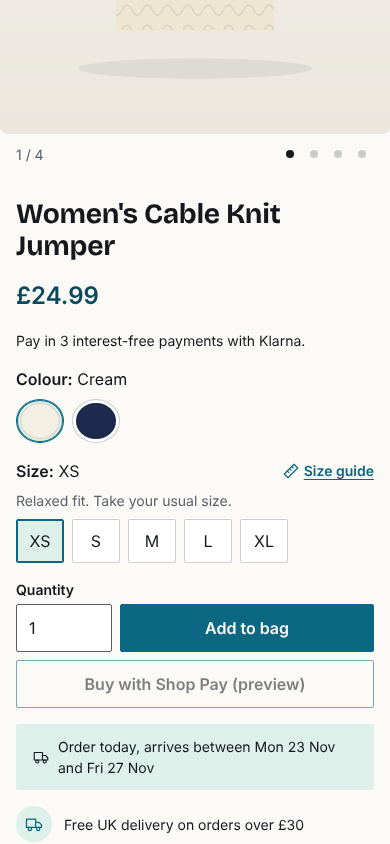
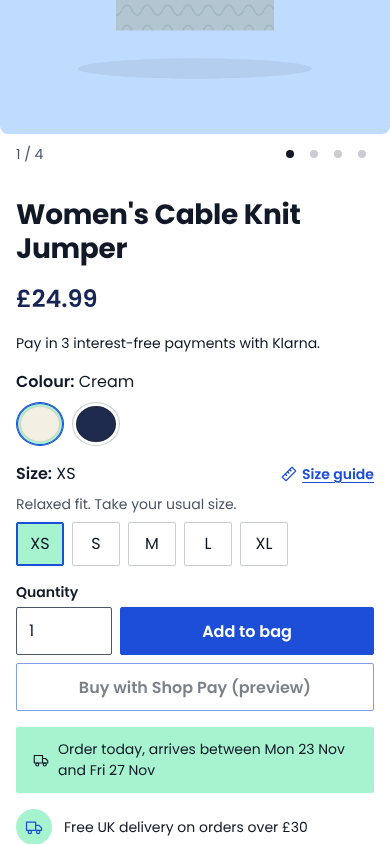
Brighter, more saturated colour palette
Royal blue header and buttons, navy footer, sunshine yellow highlights, coral and raspberry
accents, saturated section backgrounds on a pure white page; photo areas blend with the
section colour. All colour pairs pass WCAG AA; CI and 92 e2e tests pass.

Claude-Session: https://claude.ai/code/session_01DeacWXoWn9bGQYXVPzxuUJ

diff --git a/tools/preview/images.ts b/tools/preview/images.ts
@@ -24,7 +24,7 @@ export async function ensureImage(dir: string, name: string, shape: string, colo
     ? `<pattern id="p" width="80" height="80" patternUnits="userSpaceOnUse"><path d="M0 40 Q20 0 40 40 T80 40" fill="none" stroke="rgba(0,0,0,0.08)" stroke-width="6"/></pattern>`
     : '';
   const svg = `<svg xmlns="http://www.w3.org/2000/svg" width="1536" height="2048" viewBox="0 0 1536 2048">
-    <defs>${pattern}<linearGradient id="bg" x1="0" y1="0" x2="0" y2="1"><stop offset="0" stop-color="#f6f4ef"/><stop offset="1" stop-color="#ebe7df"/></linearGradient></defs>
+    <defs>${pattern}<linearGradient id="bg" x1="0" y1="0" x2="0" y2="1"><stop offset="0" stop-color="#ffffff"/><stop offset="1" stop-color="#ffffff"/></linearGradient></defs>
     <rect width="1536" height="2048" fill="url(#bg)"/>
     <ellipse cx="768" cy="1790" rx="460" ry="40" fill="rgba(0,0,0,0.06)"/>
     <path d="${d}" fill="${colour}" fill-rule="evenodd"/>

diff --git a/theme/assets/base.css b/theme/assets/base.css
@@ -116,7 +116,7 @@ cart-items, facet-form, load-more, newsletter-popup, recently-viewed, product-re
 .button--primary { background: var(--color-kingfisher); border-color: var(--color-kingfisher); color: var(--color-paper); }
 .button--primary:hover { background: var(--color-deep); border-color: var(--color-deep); }
 .button--accent { background: var(--color-gold); border-color: var(--color-gold); color: var(--color-ink); }
-.button--accent:hover { background: #e9b23a; border-color: #e9b23a; }
+.button--accent:hover { background: #FFB800; border-color: #FFB800; }
 .button--secondary { background: var(--color-paper); color: var(--color-ink); border-color: var(--color-kingfisher); }
 .button--secondary:hover { background: var(--color-mint); }
 .button--full { width: 100%; }

diff --git a/theme/assets/section-product.css b/theme/assets/section-product.css
@@ -4,7 +4,8 @@
 @media (min-width: 990px) { .product__info { position: sticky; top: 96px; } }
 .product__title { margin: 0; font-size: 1.75rem; }
 .product__info .price { color: var(--color-deep); }
-.product__gallery .media { border-radius: 8px; }
+.product__gallery .media { border-radius: 8px; background: var(--color-plume); }
+.product__gallery .media img { mix-blend-mode: multiply; }
 @media (min-width: 990px) { .product__title { font-size: 2.25rem; } }
 .product__installments { font-size: 0.875rem; margin-bottom: 16px; min-height: 20px; }
 .product__buy { display: grid; grid-template-columns: 96px 1fr; gap: 8px; align-items: end; }

diff --git a/theme/assets/section-header.css b/theme/assets/section-header.css
@@ -1,4 +1,4 @@
-.site-header { display: block; position: sticky; top: 0; z-index: 50; background: var(--color-deep); color: var(--color-paper); transition: transform 200ms ease; }
+.site-header { display: block; position: sticky; top: 0; z-index: 50; background: var(--color-kingfisher); color: var(--color-paper); transition: transform 200ms ease; }
 .site-header.is-hidden { transform: translateY(-100%); }
 .header { display: grid; grid-template-columns: 1fr auto; align-items: center; min-height: 60px; gap: 8px; }
 .header__left { display: flex; align-items: center; gap: 4px; }

diff --git a/docs/STORE_SETUP_CHECKLIST.md b/docs/STORE_SETUP_CHECKLIST.md
@@ -28,7 +28,7 @@ Some settings can only be changed by a person in the Shopify admin. **S** means 
 
 - [ ] M: Settings > Customer accounts: new customer accounts (sign-in by email code), optional at checkout.
 - [ ] M: Settings > Checkout: email marketing consent box unticked by default, SMS off, address autocomplete on, company name hidden, phone optional.
-- [ ] M: Settings > Checkout > Customise: logo, Kingfisher #0B6782 buttons, Paper #FBFAF7 background, Deep teal #0A4A5C header, Marigold #F2C14E accents, Poppins font.
+- [ ] M: Settings > Checkout > Customise: logo, royal blue #1D4ED8 buttons, white background, navy #172554 accents, sunshine #FFC629 highlights, Poppins font.
 - [ ] M: Settings > Checkout > Order status page additional scripts: none. Add the note "Items may arrive in separate parcels" to the order status page through the checkout editor's text block.
 
 ## 4. Taxes and duties

diff --git a/CHANGELOG.md b/CHANGELOG.md
@@ -4,6 +4,11 @@ Theme releases are tagged in Git (`v2.0.0` upward). Store schema changes bump `S
 
 ## Unreleased: 2.0.0 (milestones 1 to 3, built before store access)
 
+### Brighter colours (operator request: "colours look faint and dull")
+- Vivid palette: royal blue #1D4ED8 header and buttons, navy #172554 footer, sunshine #FFC629 highlights, coral #D9381E,
+  raspberry #BE185D, and saturated sky, mint, peach, lilac, butter and pink backgrounds on a pure white page.
+- Photo areas take on the section colour (light photo backgrounds blend in). All pairs still pass WCAG AA.
+
 ### Font change (operator request)
 - Poppins for headings and body, from Shopify's font library (no self-hosted font files). Montserrat or Helvetica can be picked in Theme settings > Typography.
 
